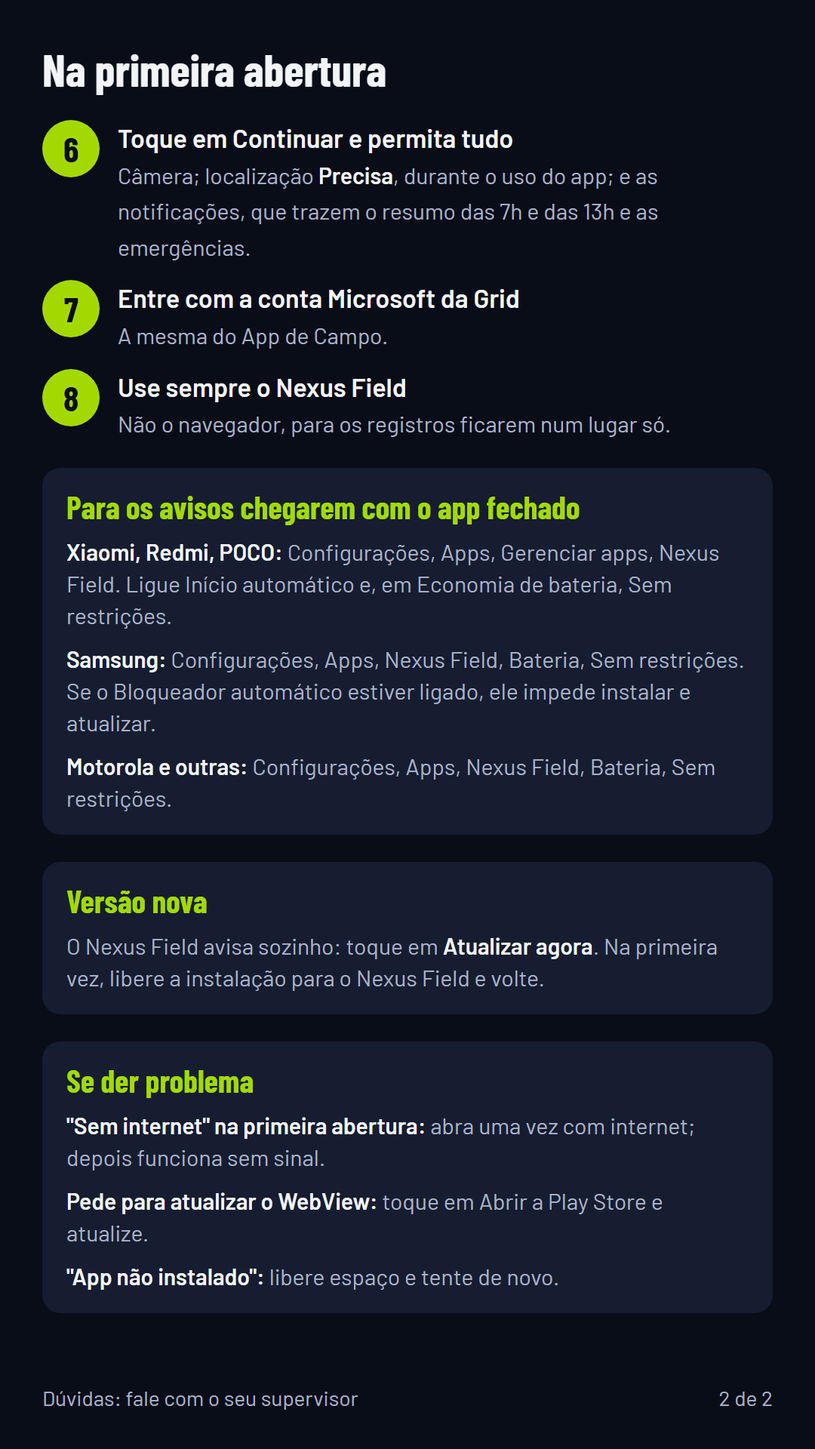
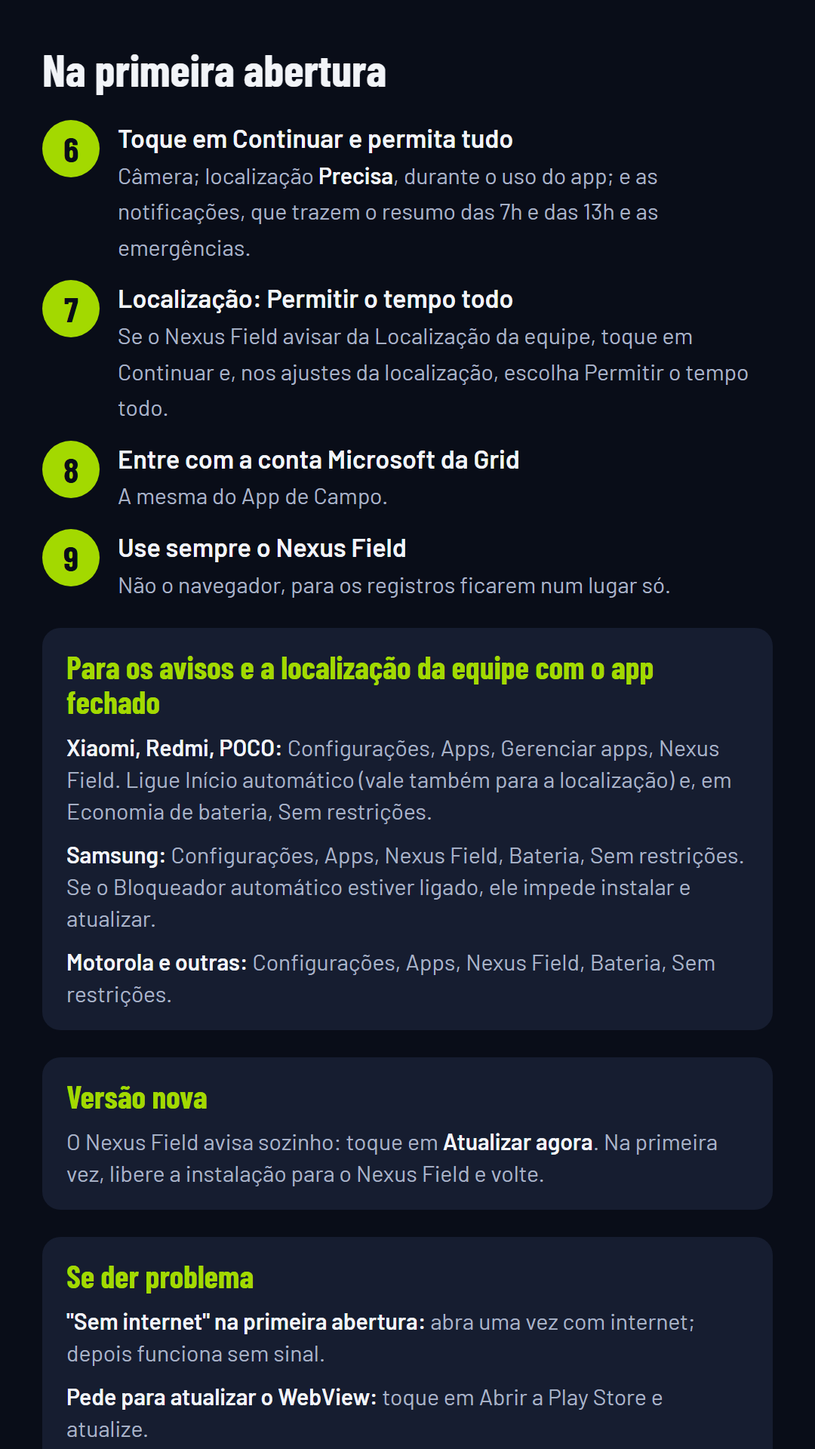
docs(equipe): prévia, guia, roteiro e novidades da 1.2.0

Changed region(s): [[0.0306, 0.1875, 0.9167, 0.6875], [0.0611, 0.7188, 0.8556, 1.0], [0.6722, 0.9062, 0.825, 0.9688]]

diff --git a/docs/previas/telas.html b/docs/previas/telas.html
@@ -288,7 +288,7 @@
       <li><input type="checkbox" id="ok-negadas"><label for="ok-negadas"><b class="cita">Permissões necessárias</b>: o texto e os mesmos dois botões.</label><a class="ver" href="#t-negadas">Ver</a></li>
       <li><input type="checkbox" id="ok-webview"><label for="ok-webview"><b class="cita">Atualize o Android System WebView</b>: o texto e o botão <b class="cita">Abrir a Play Store</b>.</label><a class="ver" href="#t-webview">Ver</a></li>
       <li><input type="checkbox" id="ok-nova"><label for="ok-nova"><b class="cita">Nova versão do Nexus Field</b>: o texto, com e sem novidades, e os botões <b class="cita">Atualizar agora</b> e <b class="cita">Depois</b>.</label><a class="ver" href="#t-nova-com">Ver</a></li>
-      <li><input type="checkbox" id="ok-novidades"><label for="ok-novidades">Novo: as novidades da 1.1.1, as linhas que quem tem a versão anterior lê no aviso <b class="cita">Nova versão do Nexus Field</b> antes de atualizar.</label><a class="ver" href="#t-nova-com">Ver</a></li>
+      <li><input type="checkbox" id="ok-novidades"><label for="ok-novidades">Novo: as novidades da 1.2.0, as linhas que quem tem a versão anterior lê no aviso <b class="cita">Nova versão do Nexus Field</b> antes de atualizar.</label><a class="ver" href="#t-nova-com">Ver</a></li>
       <li><input type="checkbox" id="ok-instalar"><label for="ok-instalar"><b class="cita">Permitir a atualização</b>: o texto e o botão <b class="cita">Abrir ajustes</b>.</label><a class="ver" href="#t-instalar">Ver</a></li>
       <li><input type="checkbox" id="ok-baixando"><label for="ok-baixando">Novo: o aviso rápido (toast) de quando o download da versão nova começa: o texto <b class="cita">Baixando a versão nova…</b>.</label><a class="ver" href="#t-baixando">Ver</a></li>
       <li><input type="checkbox" id="ok-sha"><label for="ok-sha">O aviso rápido (toast) de quando a atualização não deu certo (o download não terminou ou o arquivo não confere): o texto.</label><a class="ver" href="#t-sha">Ver</a></li>
@@ -297,6 +297,10 @@
       <li><input type="checkbox" id="ok-notificacoes"><label for="ok-notificacoes">Novo: as notificações na barra do Android, com o G da Grid em branco como ícone pequeno e o nome <b class="cita">Nexus Field</b>: o resumo das 7h, o das 13h, a emergência que toca e a que chega em silêncio (a de fora do expediente, e também a enviada no expediente que chega depois dele a um celular que estava sem sinal). O texto de cada uma é escrito pelo servidor do App de Campo (os exemplos são os dele). E o toque na emergência: põe o número da OS na busca da aba Tarefas; se o técnico estiver na tela de entrada, no meio de uma OS, de uma ronda começada ou com outra tela aberta, ela fica pendente até ele ficar livre. A emergência fica na barra até a OS ser mostrada no Nexus Field.</label><a class="ver" href="#t-notif-manha">Ver</a></li>
       <li><input type="checkbox" id="ok-canais"><label for="ok-canais">Novo: os nomes dos canais das notificações, nos ajustes do Android: <b class="cita">Emergências</b>, <b class="cita">Emergências fora do expediente</b> e <b class="cita">Resumo do dia</b>; e, novo na 1.2.0 e pendente, <b class="cita">Localização da equipe</b>, que só aparece no aparelho em que a coleta da posição ligou.</label><a class="ver" href="#t-canais">Ver</a></li>
       <li><input type="checkbox" id="ok-canais-som"><label for="ok-canais-som">Novo, e não muda depois: como cada canal avisa. <span class="canal-aviso" data-canal="emergencia"><b class="cita">Emergências</b>: o alarme padrão do aparelho, no volume das notificações (não toca no silencioso nem no Não perturbe), três vibrações, e aparece por cima da tela.</span> <span class="canal-aviso" data-canal="resumo"><b class="cita">Resumo do dia</b>: o som padrão de notificação, sem aparecer por cima da tela.</span> <span class="canal-aviso" data-canal="emergencia_silenciosa"><b class="cita">Emergências fora do expediente</b>: nada, sem som, sem vibração e sem aparecer por cima da tela (fica só na barra).</span> <span class="canal-aviso" data-canal="equipe_localizacao"><b class="cita">Localização da equipe</b> (novo na 1.2.0, pendente): nada, sem som, sem vibração, sem aparecer por cima da tela e sem o ponto no ícone (a notificação fixa fica só na barra, das 6h às 22h).</span> <span class="canal-aviso">O Android grava o som, a vibração e a importância de cada canal na primeira abertura da 1.1.0 (o da localização da equipe, na primeira vez em que a coleta liga): depois que ela chegar aos aparelhos, mudar isto pede um canal novo (os nomes mudam com a versão).</span></label><a class="ver" href="#t-canais">Ver</a></li>
+      <li><input type="checkbox" id="ok-equipe-aviso"><label for="ok-equipe-aviso">Novo na 1.2.0, pendente (também do RH e do jurídico): o aviso <b class="cita">Localização da equipe</b>, antes de a coleta da posição ligar: o texto <b class="cita">O Nexus Field vai enviar ao Nexus a posição deste celular da primeira abertura do dia, a partir das 6h, até as 22h, sem pausa, também com o aplicativo fechado. Serve para ver onde a equipe está e abrir rotas até as usinas. Quem vê o mapa: PCM, COS, Performance, Supervisão Campo, Responsáveis UFV e os administradores do Nexus. As posições ficam guardadas por 7 dias, e o resumo dos deslocamentos entre usinas, por 1 ano. Enquanto a coleta estiver ligada, uma notificação fica na barra.</b> e o botão <b class="cita">Continuar</b>.</label><a class="ver" href="#t-equipe-aviso">Ver</a></li>
+      <li><input type="checkbox" id="ok-equipe-promessa"><label for="ok-equipe-promessa">Novo na 1.2.0, pendente: o que o aviso promete ao técnico, conforme a seção 4.1 do desenho: <i>quando</i> (da primeira abertura do dia, a partir das 6h, até as 22h, sem pausa, também com o aplicativo fechado), <i>por quê</i> (ver onde a equipe está e abrir rotas até as usinas), <i>quem vê</i> (PCM, COS, Performance, Supervisão Campo, Responsáveis UFV e os administradores do Nexus) e <i>por quanto tempo</i> (7 dias as posições, 1 ano o resumo dos deslocamentos entre usinas). O que o aplicativo faz tem de ser exatamente isto.</label><a class="ver" href="#t-equipe-aviso">Ver</a></li>
+      <li><input type="checkbox" id="ok-equipe-permissao"><label for="ok-equipe-permissao">Novo na 1.2.0, pendente: a explicação <b class="cita">Localização o tempo todo</b>, no Android 11 ou mais novo: o texto <b class="cita">Para enviar a posição com o aplicativo fechado, o Nexus Field precisa da localização liberada o tempo todo. Na próxima tela, toque em Permitir o tempo todo.</b> e o botão <b class="cita">Continuar</b>.</label><a class="ver" href="#t-equipe-permissao">Ver</a></li>
+      <li><input type="checkbox" id="ok-equipe-notificacao"><label for="ok-equipe-notificacao">Novo na 1.2.0, pendente: a notificação fixa enquanto a coleta está ligada: o título <b class="cita">Localização da equipe ligada</b> e o texto <b class="cita">Até as 22h, o Nexus Field envia a posição deste celular para o mapa da equipe.</b>, no canal <b class="cita">Localização da equipe</b>.</label><a class="ver" href="#t-equipe-notificacao">Ver</a></li>
       <li><input type="checkbox" id="ok-atalhos"><label for="ok-atalhos">Novo, só para administrador: os atalhos do toque longo no ícone, <b class="cita">Testar avisos</b> e <b class="cita">Testar sem alarme</b> (com os rótulos curtos, <b class="cita">Testar</b> e <b class="cita">Sem alarme</b>; o teste manda também o resumo, que toca com o som normal, e a emergência de teste do segundo vem sem alarme), e o <b class="cita">Só para administrador</b> do atalho fixado na tela inicial, que fica desligado com outra conta e depois do Sair.</label><a class="ver" href="#t-atalhos">Ver</a></li>
       <li><input type="checkbox" id="ok-teste-avisos"><label for="ok-teste-avisos">Novo, só para administrador: os seis avisos rápidos (toast) do teste, <b class="cita">Aviso de teste enviado para 2 aparelho(s)</b> (o número muda), <b class="cita">Aviso de teste enviado</b> (sem o número), <b class="cita">Só administrador pode testar</b>, <b class="cita">Entre no Nexus Field para testar</b>, <b class="cita">Não consegui enviar o teste agora</b> e <b class="cita">Teste já pedido. Espere alguns segundos para pedir outro</b>.</label><a class="ver" href="#t-teste-enviado">Ver</a></li>
       <li><input type="checkbox" id="ok-visual"><label for="ok-visual">O visual: os diálogos seguem o tema claro ou escuro do aparelho, e os botões usam a cor de destaque padrão do Android (verde-azulado), porque a casca não define uma cor própria.</label></li>
@@ -428,13 +432,13 @@
           <div class="veu">
             <div class="dialogo" role="alertdialog" aria-labelledby="dt-nova-com" aria-describedby="dx-nova-com">
               <div class="dialogo-titulo" id="dt-nova-com">Nova versão do Nexus Field</div>
-              <p class="dialogo-texto" id="dx-nova-com">Versão 1.1.1. Novidades:
-- A contagem do inventário do almoxarifado também fica guardada no aparelho, para não se perder se o celular limpar o navegador</p>
+              <p class="dialogo-texto" id="dx-nova-com">Versão 1.2.0. Novidades:
+- A localização da equipe: para quem o Nexus indicar, o Nexus Field envia a posição do celular da primeira abertura do dia até as 22h, também com o aplicativo fechado, e antes explica o que é enviado e quem vê</p>
               <div class="dialogo-botoes"><span class="dialogo-botao">Depois</span><span class="dialogo-botao">Atualizar agora</span></div>
             </div>
           </div>
         </div>
-        <figcaption><strong>Com novidades.</strong> A versão e as linhas de novidades vêm do versao.json de cada Release, que as tira do arquivo de novidades da versão. Estas são as de verdade da 1.1.1, tiradas do arquivo de novidades dela: é o que quem tem a versão anterior lê antes de atualizar. Tocar fora, Voltar e Depois contam como adiar.</figcaption>
+        <figcaption><strong>Com novidades.</strong> A versão e as linhas de novidades vêm do versao.json de cada Release, que as tira do arquivo de novidades da versão. Estas são as de verdade da 1.2.0, tiradas do arquivo de novidades dela: é o que quem tem a versão anterior lê antes de atualizar. Tocar fora, Voltar e Depois contam como adiar.</figcaption>
       </figure>
 
       <figure class="item" id="t-nova-sem">

diff --git a/docs/instalacao/guia.fonte.html b/docs/instalacao/guia.fonte.html
@@ -119,6 +119,7 @@
     <h2 id="t-abertura">Na primeira abertura</h2>
     <ol class="passos" style="--inicio: 5">
       <li><div><strong>Permita câmera, localização e notificações</strong><span class="suave">Toque em <span class="botao">Continuar</span>. Na localização, escolha <strong>Precisa</strong> e <strong>Durante o uso do app</strong>. Nas notificações, <span class="botao">Permitir</span>: é por elas que chegam o resumo das 7h e das 13h e as emergências.</span></div></li>
+      <li><div><strong>Se aparecer a Localização da equipe</strong><span class="suave">É a coleta da posição para o mapa da equipe, só para quem o Nexus indicar. Leia o aviso e toque em <span class="botao">Continuar</span>. Em seguida, nos ajustes da localização do Nexus Field, escolha <strong>Permitir o tempo todo</strong>.</span></div></li>
       <li><div><strong>Entre com a sua conta Microsoft da Grid</strong><span class="suave">A mesma que você usa no App de Campo.</span></div></li>
       <li><div><strong>Pronto</strong><span class="suave">Use sempre o Nexus Field, não o navegador, para os registros ficarem num lugar só.</span></div></li>
     </ol>
@@ -130,12 +131,12 @@
       <article class="marca">
         <h3>Xiaomi, Redmi e POCO</h3>
         <p>Antes de instalar, a Xiaomi pode verificar o arquivo: espere e toque em <span class="botao">Instalar</span>.</p>
-        <p>Para os avisos chegarem com o app fechado: Configurações, Apps, Gerenciar apps, Nexus Field. Ligue <strong>Início automático</strong> e, em Economia de bateria, escolha <strong>Sem restrições</strong>.</p>
+        <p>Para os avisos chegarem com o app fechado: Configurações, Apps, Gerenciar apps, Nexus Field. Ligue <strong>Início automático</strong> e, em Economia de bateria, escolha <strong>Sem restrições</strong>. É o mesmo ajuste que deixa a localização da equipe seguir com o app fechado.</p>
       </article>
       <article class="marca">
         <h3>Samsung</h3>
         <p>Se o <strong>Bloqueador automático</strong> estiver ligado, ele impede a instalação e as atualizações: Configurações, Segurança e privacidade, Bloqueador automático, desligar.</p>
-        <p>Para os avisos: Configurações, Apps, Nexus Field, Bateria, <strong>Sem restrições</strong>.</p>
+        <p>Para os avisos e a localização da equipe: Configurações, Apps, Nexus Field, Bateria, <strong>Sem restrições</strong>.</p>
       </article>
       <article class="marca">
         <h3>Motorola e outras</h3>

diff --git a/docs/instalacao/guia.html b/docs/instalacao/guia.html
@@ -119,6 +119,7 @@
     <h2 id="t-abertura">Na primeira abertura</h2>
     <ol class="passos" style="--inicio: 5">
       <li><div><strong>Permita câmera, localização e notificações</strong><span class="suave">Toque em <span class="botao">Continuar</span>. Na localização, escolha <strong>Precisa</strong> e <strong>Durante o uso do app</strong>. Nas notificações, <span class="botao">Permitir</span>: é por elas que chegam o resumo das 7h e das 13h e as emergências.</span></div></li>
+      <li><div><strong>Se aparecer a Localização da equipe</strong><span class="suave">É a coleta da posição para o mapa da equipe, só para quem o Nexus indicar. Leia o aviso e toque em <span class="botao">Continuar</span>. Em seguida, nos ajustes da localização do Nexus Field, escolha <strong>Permitir o tempo todo</strong>.</span></div></li>
       <li><div><strong>Entre com a sua conta Microsoft da Grid</strong><span class="suave">A mesma que você usa no App de Campo.</span></div></li>
       <li><div><strong>Pronto</strong><span class="suave">Use sempre o Nexus Field, não o navegador, para os registros ficarem num lugar só.</span></div></li>
     </ol>
@@ -130,12 +131,12 @@
       <article class="marca">
         <h3>Xiaomi, Redmi e POCO</h3>
         <p>Antes de instalar, a Xiaomi pode verificar o arquivo: espere e toque em <span class="botao">Instalar</span>.</p>
-        <p>Para os avisos chegarem com o app fechado: Configurações, Apps, Gerenciar apps, Nexus Field. Ligue <strong>Início automático</strong> e, em Economia de bateria, escolha <strong>Sem restrições</strong>.</p>
+        <p>Para os avisos chegarem com o app fechado: Configurações, Apps, Gerenciar apps, Nexus Field. Ligue <strong>Início automático</strong> e, em Economia de bateria, escolha <strong>Sem restrições</strong>. É o mesmo ajuste que deixa a localização da equipe seguir com o app fechado.</p>
       </article>
       <article class="marca">
         <h3>Samsung</h3>
         <p>Se o <strong>Bloqueador automático</strong> estiver ligado, ele impede a instalação e as atualizações: Configurações, Segurança e privacidade, Bloqueador automático, desligar.</p>
-        <p>Para os avisos: Configurações, Apps, Nexus Field, Bateria, <strong>Sem restrições</strong>.</p>
+        <p>Para os avisos e a localização da equipe: Configurações, Apps, Nexus Field, Bateria, <strong>Sem restrições</strong>.</p>
       </article>
       <article class="marca">
         <h3>Motorola e outras</h3>

diff --git a/docs/instalacao/cartao-2.fonte.html b/docs/instalacao/cartao-2.fonte.html
@@ -30,12 +30,13 @@
   <h2>Na primeira abertura</h2>
   <ol>
     <li><div><b>Toque em Continuar e permita tudo</b><span>Câmera; localização <b>Precisa</b>, durante o uso do app; e as notificações, que trazem o resumo das 7h e das 13h e as emergências.</span></div></li>
+    <li><div><b>Localização: Permitir o tempo todo</b><span>Se o Nexus Field avisar da Localização da equipe, toque em Continuar e, nos ajustes da localização, escolha Permitir o tempo todo.</span></div></li>
     <li><div><b>Entre com a conta Microsoft da Grid</b><span>A mesma do App de Campo.</span></div></li>
     <li><div><b>Use sempre o Nexus Field</b><span>Não o navegador, para os registros ficarem num lugar só.</span></div></li>
   </ol>
   <div class="bloco">
-    <h3>Para os avisos chegarem com o app fechado</h3>
-    <p><b>Xiaomi, Redmi, POCO:</b> Configurações, Apps, Gerenciar apps, Nexus Field. Ligue Início automático e, em Economia de bateria, Sem restrições.</p>
+    <h3>Para os avisos e a localização da equipe com o app fechado</h3>
+    <p><b>Xiaomi, Redmi, POCO:</b> Configurações, Apps, Gerenciar apps, Nexus Field. Ligue Início automático (vale também para a localização) e, em Economia de bateria, Sem restrições.</p>
     <p><b>Samsung:</b> Configurações, Apps, Nexus Field, Bateria, Sem restrições. Se o Bloqueador automático estiver ligado, ele impede instalar e atualizar.</p>
     <p><b>Motorola e outras:</b> Configurações, Apps, Nexus Field, Bateria, Sem restrições.</p>
   </div>

diff --git a/CLAUDE.md b/CLAUDE.md
@@ -18,7 +18,8 @@ source ferramentas/ambiente.sh             # JAVA_HOME, ANDROID_HOME, PATH e and
 npx cap sync android && (cd android && ./gradlew testDebugUnitTest assembleDebug lint)
 ```
 
-O `lint` sai sem erro. Os 13 avisos que restam (medido em 19/10/2026) são do template do Capacitor (`ManifestOrder`,
+O `lint` sai sem erro. Os 18 avisos que restam (13 medidos em 19/10/2026; os cinco `ApplySharedPref` da `ChaveDaEquipe` são
+de propósito, ver "Localização da equipe") são do template do Capacitor (`ManifestOrder`,
 `UnusedResources`), da versão do Gradle (`AndroidGradlePluginVersion`), dos ícones quadrados do Android 7
 (`IconLauncherShape`) e o `PluralsCandidate` do `casca_teste_enviado`, de propósito (ver "O atalho de teste dos avisos").
 O `ambiente.sh` escreve o `sdk.dir` com o `:` escapado (`C\:/Users/...`): sem o escape o lint falha com PropertyEscape,
@@ -263,7 +264,8 @@ todo dia às 11h UTC, o contrato com o site (`contrato.yml`). Detalhes na seçã
   lote de 400 ms); (4) a sentinela, as versões da fila e a restauração do localStorage; (5) o espelho e a restauração do
   IndexedDB das fotos (`gc_campo_fotos`, store `fotos`); (6) o `window.open` do login e do Fracttal; (7) o voltar; (8) o
   registro do aparelho para as notificações, com o papel de Admin do atalho de teste; (9) a abertura da OS pelo toque na
-  emergência (as seções 8 e 9 estão no bullet "As notificações do Nexus Field" e nos dois seguintes).
+  emergência (as seções 8 e 9 estão no bullet "As notificações do Nexus Field" e nos dois seguintes); (10) a chave da
+  equipe, o registro do aparelho da localização da equipe no Nexus (a seção "Localização da equipe").
   - **As marcas no localStorage**, gravadas pelo `setItem` original (fora do espelho; o `classificar` as deixa de fora):
     `gc_casca_sentinela` (presente = o armazenamento não foi perdido) e `gc_casca_perda_pendente` (a perda começou e
     ainda não terminou). **O banco `gc_casca`** no IndexedDB: "a última restauração do IndexedDB terminou".
@@ -1015,6 +1017,83 @@ todo dia às 11h UTC, o contrato com o site (`contrato.yml`). Detalhes na seçã
     atividade" não: o projeto mais usado que fazia isso foi desativado pelo GitHub por violar os termos. A primeira prova
     de que o PUT segura é nossa: conferir na aba Actions, uns 70 dias depois do último commit, que o contrato ainda roda
     (e não ignorar o e-mail "The workflow will be disabled soon", se ele vier).
+
+## Localização da equipe (1.2.0, spec `docs/superpowers/specs/2026-11-08-mapa-de-equipe-design.md`)
+
+O Nexus Field coleta a posição do celular do técnico de campo para o mapa da equipe do Nexus. Os textos são PENDENTES até o
+dono da casca, o RH e o jurídico aprovarem na prévia (a seção Localização da equipe de `docs/previas/telas.html`); a tag
+`v1.2.0` só sai depois disso, com as três rotas do Nexus no ar (chat "Nexus (Usinas 360)") e o piloto com 1 ou 2 técnicos.
+O site (App de Campo) e o Fracttal não mudam.
+
+- **A regra.** Liga na primeira abertura (ou na volta ao app) entre 6h e 22h na hora do celular, e para às 22h; 6:00:00
+  vale e 22:00:00 não (`JanelaDaEquipe`). Sem botão de pausa (decisão do dono). Só vale para quem o Nexus diz
+  `coleta: true` ao dar a chave: supervisor, administrador, aparelho de prova e quem está fora do piloto não veem aviso
+  nem coleta, e por isso a 1.2.0 pode ir a todos os aparelhos. `coleta: false` ou 401 param o serviço e apagam a chave.
+  Ritmo (`RitmoDaColeta`, instância com estado: 3 leituras paradas seguidas): 2 min em deslocamento, 10 min parado.
+  Envio em lotes de até 200 pontos (64 KB) a cada 120 000 ms em deslocamento e 600 000 ms parado.
+- **O porquê de cada peça.**
+  - `ServicoDaEquipe`: serviço em primeiro plano do tipo localização, com a notificação fixa no canal "Localização da
+    equipe" (o quarto canal do `CanaisDeNotificacao`, `equipe_localizacao`, só nasce no aparelho em que a coleta ligou;
+    sem som, sem vibração, sem ponto no ícone). O Handler não conta o sono do celular: com a tela apagada o envio sai
+    pela posição que chega com o envio vencido no `elapsedRealtime`, com um `WAKE_LOCK` parcial até a resposta (o mapa
+    dizia "sem sinal" com o técnico trabalhando). O fim das 22h é conferido a cada posição e a cada envio, e o prazo do
+    dia vai ao disco antes do pedido: o religamento do sistema (`START_STICKY`) não coleta no dia seguinte sem o técnico
+    abrir o app. O `mov` do ponto é o da própria leitura (1 m/s ou 150 m acima da precisão), não o do ritmo: senão as
+    primeiras leituras em casa iam como deslocamento e o mapa mostraria a posição exata de quem está fora de usina.
+  - Sem a notificação fixa à vista não há coleta (Android 13+ com a notificação negada, ou o canal ou as notificações do
+    Nexus Field desligados): `notificacaoAVista` confere ao ligar, a cada posição e a cada envio. A notificação arrastada
+    (Android 14+) volta na hora, pelo `deleteIntent` (`REPOR`).
+  - `EquipeNaCasca`: a regra (`decidir`, pura) e quem a executa: o aviso antes de ligar (uma vez por chave do aparelho,
+    não fecha tocando fora nem pelo Voltar, sem botão de recusar), a explicação da localização o tempo todo (Android 11+; no
+    10 o pedido do Android já oferece), o `permissao: "sem"` ao Nexus no máximo a cada 30 min (o mapa separa quem negou de
+    quem não abriu o app), a volta ao app e o Sair. Fora da janela nada aparece ao técnico. Uma thread só para disco,
+    cifra e rede (a do serviço).
+  - O Sair para a coleta na hora, apaga a fila, revoga e apaga a chave (mesmo sem rede) e deixa uma marca
+    (`saidasPendentes`) até a chave sair: a decisão que já esperava na thread (a volta ao app atrás de um envio pendurado)
+    não religa a coleta de quem saiu, e a tarefa do Sair para de novo antes da rede.
+  - `ChaveDaEquipe` (cifrada pela `Cifra`/Keystore; o `commit()` do `apagarAChave` e dos outros é de propósito, no
+    lugar do `apply()`, porque a gravação tem de chegar ao disco antes de o envio seguir, na thread dele), `FilaDePontos`
+    (SQLite: no máximo 1000 pontos e nada com mais de 24 h; passou, sai o mais velho) e `EnvioDePontos` (todo 5xx e a
+    falta de rede deixam fila e chave intactas; só o 401 apaga a chave).
+  - A seção 10 do `inicio.js` (a chave da equipe) pede a chave ao Nexus mostrando o login Microsoft da página: o token
+    nunca chega ao nativo, ao espelho nem ao log. Só pede sem chave guardada, ou depois do 401 (cada pedido gera uma chave
+    nova e revoga a anterior do par). Os endereços são `https://app.gridco.com.br` + `/t/campo/equipe/aparelho`,
+    `/t/campo/equipe/posicoes` e `/t/campo/equipe/aparelho/revogar` (seção 8 do desenho: o chat do Nexus pode trocar, e avisa).
+- **A chave é da conta, e a fila também (R5, R6).** A página manda ao nativo a `conta` (SHA-256 de uma frase fixa mais o
+  `oid`, ou o `sub`, do token, calculado na página; não sai do aparelho). O nativo guarda a conta com a chave e só diz
+  `temChave: true` com a chave da mesma conta. Outra conta guardada, a chave de antes da conta ou a fila sem conta
+  guardada recebem o trabalho do Sair da anterior (sem a revogação quando não há chave) antes da resposta, na thread do
+  envio; a mesma conta fica com a fila, que sobe com a chave nova. O 401 apaga só a chave: a conta guardada é a dona da
+  fila. Caso que criou a regra: a conta A sem sinal o dia todo, a chave vence, o 401; a conta B entra no dia seguinte sem
+  o Sair de A e herdaria o dia de A. A conta ilegível (Keystore invalidado, backup restaurado) conta como fila sem dona,
+  e a fila é apagada.
+- **O envio espera a conta conferida nesta partida (R8).** `ChaveDaEquipe.conferida`, só na memória, começa "não
+  conferida"; confere o pedido do aparelho da mesma conta ou a chave nova guardada; desfazem o Sair, a troca de conta, o
+  `coleta:false`, o 401, a conferência de outra conta e o cofre fora. Enquanto não conferida, `EnvioDePontos.enviar` e o
+  `avisarSemPermissao` devolvem NADA sem rede (a coleta segue e guarda; a revogação do Sair não espera). Caso: a partida a
+  frio com a chave de outra conta, que enviaria o primeiro lote uns 1 min 45 s depois do `onResume`, antes de o login da
+  nova conta chegar. O custo aceito: o app aberto sem token coleta e só envia depois que a página confere a conta (a fila
+  guarda 24 h e 1000 pontos). E o cofre que não lê a conta na conferência responde `temChave: true` (para não pedir uma
+  chave que o cofre fora não guarda), e nada sai até a próxima conferência, que é a próxima carga da página (a R7 conta
+  o `temChave: true` como terminada). A R9 (o nativo reconferir a conta antes de cada envio) fica para a onda final de
+  correção, que a documenta.
+- **A nova tentativa da página (R7).** Terminou: `temChave: true`, ou o `equipeChave` com a chave ou com o `coleta:false`
+  entregue ao nativo. A falha antes do nativo (sem login, token sem id, sem `crypto`) tenta na hora no online e na volta
+  ao app; a que chegou ao nativo ou ao Nexus tenta no máximo uma vez a cada 10 min, contados do pedido ao nativo (o
+  `criarEspera`, que a seção 8 também usa, cada uma com a sua espera). Com o POST no ar nada começa outro; depois do Sair,
+  nada. Os testes da página são `testes/equipe.test.mjs` (e o `canal.test.mjs` compara as `onde` com a lista do
+  `Mensageiro`); os outros (`push`, `atalho-teste`) filtram os avisos `equipe` pelo `onde`.
+- **Os avisos `equipe` do log** (`{t:'erro', onde:'equipe'}`, com texto nosso, sem coordenada, chave, e-mail ou id): o
+  token sem id e a página sem `crypto.subtle` ou com o resumo da conta falho, uma vez por carga cada; as falhas do nativo
+  e do Nexus, uma por tentativa (até as rotas do Nexus entrarem no ar, cada carga logada manda o 404); o Bearer `null`
+  (sem login) não avisa. São o que deixa o piloto diagnosticável.
+- **O que não se faz.** Coordenada, chave, e-mail ou id de aparelho no log (`Log`) ou nos `erro` da página; o token
+  Microsoft no nativo; botão de pausa; coletar fora da janela, sem a notificação fixa à vista ou com `coleta: false`;
+  texto novo de interface sem o `strings.xml` PENDENTE e a prévia (o `testes/previas.test.mjs` exige o quadro e o item do
+  "O que aprovar", com o texto inteiro); nome de pessoa em arquivo versionado (o `testes/dados-pessoais` pega).
+  Xiaomi e afins: a coleta com o app fechado depende do Início automático e da bateria sem restrições, que o guia de
+  instalação (`docs/instalacao/`) manda ligar. O roteiro do piloto é a seção "A localização da equipe" do
+  `docs/prova-no-aparelho.md`; falta o piloto no aparelho (bateria, a parada às 22h, a tela apagada, as marcas).
 
 ## Distribuição
 

diff --git a/docs/prova-no-aparelho.md b/docs/prova-no-aparelho.md
@@ -329,6 +329,85 @@ Num aparelho sem o Nexus Field. Neste, só depois de conferir que nada ficou na 
       **Continuar**, o Android pede a câmera, a localização e, por último, a notificação.
 - [ ] Android 12 ou mais velho (se houver aparelho): nenhum pedido de notificação aparece, e os avisos chegam.
 
+## A localização da equipe (1.2.0, o piloto)
+
+Só depois de as três rotas do Nexus estarem no ar (`/t/campo/equipe/aparelho`, `/posicoes` e `/aparelho/revogar`) e de o
+Nexus incluir o aparelho de prova no piloto (a coleta só vale com `coleta: true`). Num aparelho de prova, nunca o de um
+técnico, com contas de teste combinadas com o PCM, e de preferência com o mapa da equipe do Nexus aberto em outro lugar,
+para ver as posições chegarem. Os textos do aviso, da explicação e da notificação são os da prévia (a seção Localização
+da equipe de `docs/previas/telas.html`) e valem só depois de aprovados. Nenhuma coordenada, e-mail ou chave vai para
+este arquivo: anote o que se viu em palavras.
+
+### A janela, a bateria e a notificação fixa
+
+- [ ] Antes das 6h (hora do celular): abrir o Nexus Field com a conta do piloto: nem o aviso nem a coleta aparecem. Depois
+      das 6h, abrir de novo: aparece o aviso **Localização da equipe**. O aviso não fecha tocando fora nem pelo Voltar, e
+      não tem botão de recusar.
+- [ ] Android 11 ou mais novo: o **Continuar** do aviso mostra a explicação **Localização o tempo todo**, e o dela leva
+      aos ajustes da localização do Nexus Field; escolher **Permitir o tempo todo**. No Android 10, o próprio pedido do
+      Android oferece o Permitir o tempo todo e a explicação não aparece.
+- [ ] A coleta liga: a notificação fixa **Localização da equipe ligada** fica na barra, sem som e sem vibração. No Android
+      14 ou mais novo, arrastá-la para o lado: ela volta na hora, e a coleta segue.
+- [ ] A bateria das 6h às 22h: com a coleta ligada, usar o aparelho normalmente por um dia de trabalho (ou o que der de
+      tempo) e ver em Configurações, Bateria, o consumo do Nexus Field. Anotar a porcentagem e quanto tempo o aparelho
+      passou parado: é o número que o piloto decide se aceita.
+- [ ] A parada às 22h: com a coleta ligada, esperar as 22h (ou pôr o relógio do aparelho em 21h59, com o horário
+      automático desligado): a notificação fixa sai sozinha, e o Nexus não recebe mais pontos até a primeira abertura do
+      dia seguinte. Voltar o horário automático. Às 22h em ponto não vale, e às 6h em ponto vale.
+- [ ] A coleta com o Nexus Field fechado: com a coleta ligada, tirar o Nexus Field dos recentes e apagar a tela; andar
+      com o aparelho por alguns minutos (ou deixá-lo parado em outro ponto): o mapa mostra posições novas, a cada uns 2
+      minutos em deslocamento e uns 10 parado. Com a tela apagada por 30 min ou mais o ritmo se mantém.
+- [ ] A notificação desligada: nos ajustes do Android, desligar o canal **Localização da equipe** (ou as notificações do
+      Nexus Field): a coleta para, e o mapa mostra o aparelho sem sinal. No Android 13 ou mais novo, negar a notificação
+      do Nexus Field numa instalação nova: a coleta não liga (sem a notificação à vista não há coleta). Religar e ver a
+      coleta voltar na próxima volta ao app.
+
+### O técnico sem a permissão o tempo todo e o Sair
+
+- [ ] Negar o **Permitir o tempo todo** (ou deixar só **Durante o uso**): o Nexus Field funciona como antes, sem coletar,
+      e o mapa mostra "sem permissão de localização" para o aparelho (o aviso sai no máximo a cada 30 minutos). Voltar ao
+      app não repete a explicação na mesma tela; a próxima abertura pergunta de novo.
+- [ ] O Sair que revoga: com a coleta ligada, **Sair**: a notificação fixa some na hora, a coleta para e o mapa deixa de
+      receber pontos; o aparelho não recebe mais nada em nome da conta de antes. Entrar de novo na mesma conta: o aviso
+      aparece de novo (a chave é nova).
+- [ ] O Sair sem rede: com a coleta ligada, modo avião, **Sair**, tirar o modo avião sem entrar: a notificação fixa já
+      saiu e nenhum ponto sobe. Entrar com a conta do piloto: o aviso aparece de novo.
+- [ ] Um aparelho fora do piloto (conta de teste que o Nexus não escolheu, ou a conta Admin): nem o aviso nem a
+      coleta aparecem, e a 1.2.0 se comporta como a 1.1.1.
+
+### A troca de conta e a abertura sem sinal
+
+- [ ] A troca de conta (as duas contas de teste no mesmo celular): com a conta A coletando, entrar com a B **sem** o Sair
+      da A (o login da página trocando de conta). Nada sai em nome da A depois disso, a fila da A não sobe com a chave da
+      B, e a coleta da B pede o aviso de novo (o Continuar liga a coleta). Voltar ao A pelo mesmo caminho: o mesmo.
+- [ ] A abertura em modo avião: com o aparelho em modo avião, abrir o Nexus Field (a chave já estava guardada): a coleta
+      liga e guarda os pontos na fila. Tirar o modo avião: os pontos sobem depois que a página confere a conta (o log
+      da casca diz que a conta da chave da equipe foi conferida nesta partida), e não antes. O custo que o desenho
+      aceitou: o app aberto sem token coleta e guarda, e só envia depois dessa conferência; a fila guarda 24 h e no
+      máximo 1000 pontos.
+- [ ] A nova tentativa ao voltar o sinal: abrir o Nexus Field em modo avião com o aparelho sem chave, tirar o modo avião
+      e esperar: a página pede a chave sozinha quando a rede volta (ou na volta ao app), no máximo a cada 10 minutos, e a
+      coleta liga com o aviso.
+- [ ] O 401 com a fila cheia: com a chave revogada no Nexus (peça ao chat do Nexus) e pontos na fila, abrir o Nexus
+      Field com a mesma conta: a chave nova entra e a fila antiga sobe com ela; com outra conta, a fila não sobe.
+- [ ] A partida a frio: tirar o Nexus Field dos recentes e abrir com a chave guardada: nenhum envio de pontos antes do
+      log "a conta da chave da equipe conferida nesta partida".
+
+### Os avisos `equipe` do log
+
+Só se lê o log do Nexus Field (o logcat do aparelho de prova, filtrado ao app) e só o texto: coordenadas, chaves, e-mails
+e ids de aparelho nunca aparecem, e se aparecerem é defeito. Os avisos `equipe` que a página manda e o que cada um quer
+dizer:
+
+- [ ] O token da página que não diz de quem é a conta (sem `oid` nem `sub`): a chave da equipe não é pedida e o aparelho
+      não entra na coleta; uma vez por carga.
+- [ ] A página sem `crypto.subtle` (WebView antiga) ou o resumo da conta que falhou ou saiu fora do formato: mesmo efeito,
+      uma vez por carga cada.
+- [ ] As falhas do nativo e do Nexus (rota fora do ar, 404, 5xx, a chave que o nativo não guardou): um aviso por
+      tentativa, e a página tenta de novo no online e na volta ao app, a cada 10 minutos no máximo. Enquanto as rotas do
+      Nexus não estiverem no ar, cada carga com o técnico logado manda um (o 404): é esperado.
+- [ ] O Bearer que não vem (sem login) não avisa: é a conta ainda sem sessão, e a nova tentativa vem no login.
+
 ## O que não se vê no aparelho sem ferramenta
 
 - O Android 7, que não tem canais de notificação: lá a própria notificação faz o papel do canal (na emergência, o alarme

diff --git a/docs/superpowers/specs/2026-11-08-mapa-de-equipe-design.md b/docs/superpowers/specs/2026-11-08-mapa-de-equipe-design.md
@@ -78,9 +78,26 @@ A coleta é da casca Android (este repositório). O dado vai para o Nexus, e a t
   mais espaçado parado. Sem sinal, os pontos esperam no celular e saem quando o sinal voltar.
 - **A identidade do aparelho.** Com o app fechado não há o login da página para mandar as posições. Na carga com o
   técnico logado, a casca pede ao Nexus uma chave própria do aparelho, mostrando o login Microsoft da página; o Nexus
-  confere esse login, sabe quem é a pessoa, diz se a coleta vale para ela e devolve a chave. A casca a guarda cifrada
-  (como a identidade do espelho) e a usa em cada envio. O Sair apaga a chave no celular e pede ao Nexus para revogá-la.
-  Outra conta no mesmo aparelho recebe outra chave.
+  confere esse login, sabe quem é a pessoa, diz se a coleta vale para ela e devolve a chave. O token Microsoft não sai da
+  página. A casca guarda a chave cifrada (como a identidade do espelho) e a usa em cada envio. O Sair apaga a chave no
+  celular e pede ao Nexus para revogá-la.
+- **A chave é da conta.** A página calcula a conta (o SHA-256 de uma frase fixa mais o `oid`, ou o `sub`, do token
+  Microsoft) e a manda ao nativo junto com o pedido e com a chave; o hash não sai do aparelho. O nativo guarda a conta com
+  a chave e só diz que há chave quando é a da mesma conta. Outra conta no mesmo celular, sem o Sair da anterior, faz o
+  trabalho do Sair da anterior (para a coleta, apaga a fila, revoga e apaga a chave, esquece o aviso aceito) e pede o aviso
+  de novo: a conta B nunca herda a chave, o aviso nem a fila da A. A conta guardada é a dona da fila e sobrevive ao 401
+  (que apaga só a chave): a mesma conta sobe a fila com a chave nova, e outra conta não a herda. O Sair, a troca de conta e
+  o `coleta:false` apagam tudo. Uma conta ilegível (Keystore invalidado, backup restaurado) conta como fila sem dona, e a
+  fila é apagada.
+- **O envio espera a conta conferida.** A coleta liga com a chave guardada e guarda os pontos, mas nada sai (nem o aviso
+  de que falta a permissão) até esta partida do app conferir a conta: o pedido do aparelho da mesma conta, ou a chave nova
+  guardada. O custo: o app aberto sem token (sem sinal, sessão vencida) coleta e só envia depois da conferência; a fila
+  guarda 24 h e no máximo 1000 pontos. A revogação do Sair não espera.
+- **A nova tentativa da página.** O que não terminou (o token ainda sem login, a falha do nativo ou do Nexus) tenta de novo
+  no online e na volta ao app, no máximo a cada 10 min contados do pedido ao nativo; com o pedido no ar nada começa outro,
+  e depois do Sair nada. Terminou: há chave (`temChave`), ou a chave ou o `coleta:false` foi entregue ao nativo. As falhas
+  que só aparecem no aparelho (o token sem id, a página sem `crypto.subtle`) e as do nativo e do Nexus saem como aviso
+  `equipe` no log, sem coordenada nem chave.
 - **Xiaomi e afins.** A coleta com o app fechado depende do "Início automático" e da bateria sem restrições, que o guia
   de instalação já manda ligar para os avisos (`docs/instalacao/`). O guia ganha a linha da localização.
 
@@ -127,6 +144,9 @@ A coleta é da casca Android (este repositório). O dado vai para o Nexus, e a t
 - O técnico que não abre o app no dia não aparece no mapa naquele dia.
 - Abrir rota manda ao Google a posição do técnico e a da usina, no clique de quem pediu.
 - Entre os 7 dias e a limpeza da T.I., o ponto velho continua no banco, cifrado, sem uso.
+- Sem a notificação fixa à vista não há coleta: no Android 13 ou mais novo com a notificação do Nexus Field negada, ou com
+  as notificações ou o canal da localização da equipe desligados nos ajustes, a coleta não liga (e para, se estava ligada).
+  O mapa mostra esse aparelho como sem sinal.
 - O técnico pode negar a localização "o tempo todo" nos ajustes do Android: o mapa mostra quem está sem permissão, e
   resolver isso é com o supervisor.
 

diff --git a/novidades/1.2.0.md b/novidades/1.2.0.md
@@ -1,0 +1,5 @@
+# Nexus Field 1.2.0
+
+Mapa da equipe: a localização dos técnicos de campo no Nexus.
+
+- A localização da equipe: para quem o Nexus indicar, o Nexus Field envia a posição do celular da primeira abertura do dia até as 22h, também com o aplicativo fechado, e antes explica o que é enviado e quem vê
